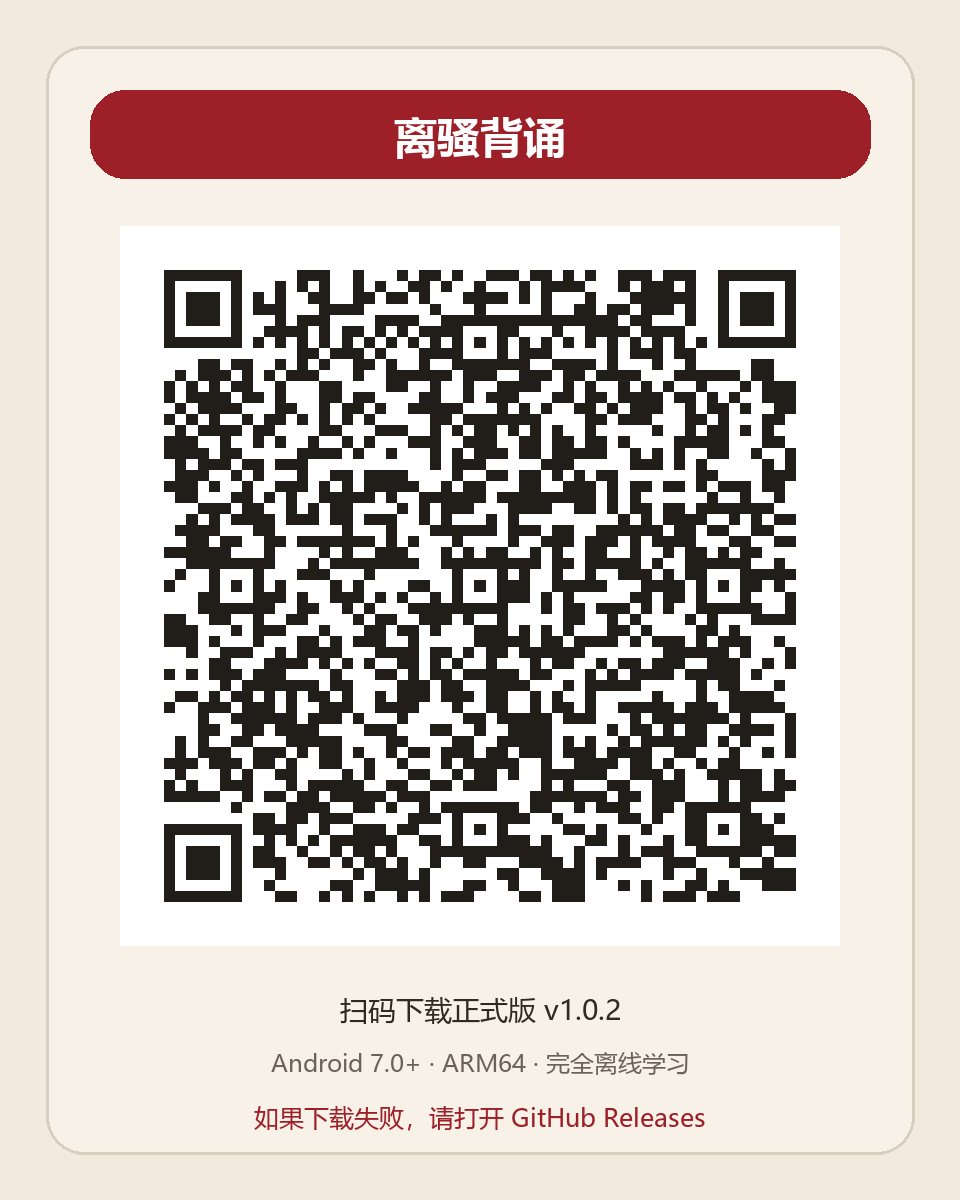
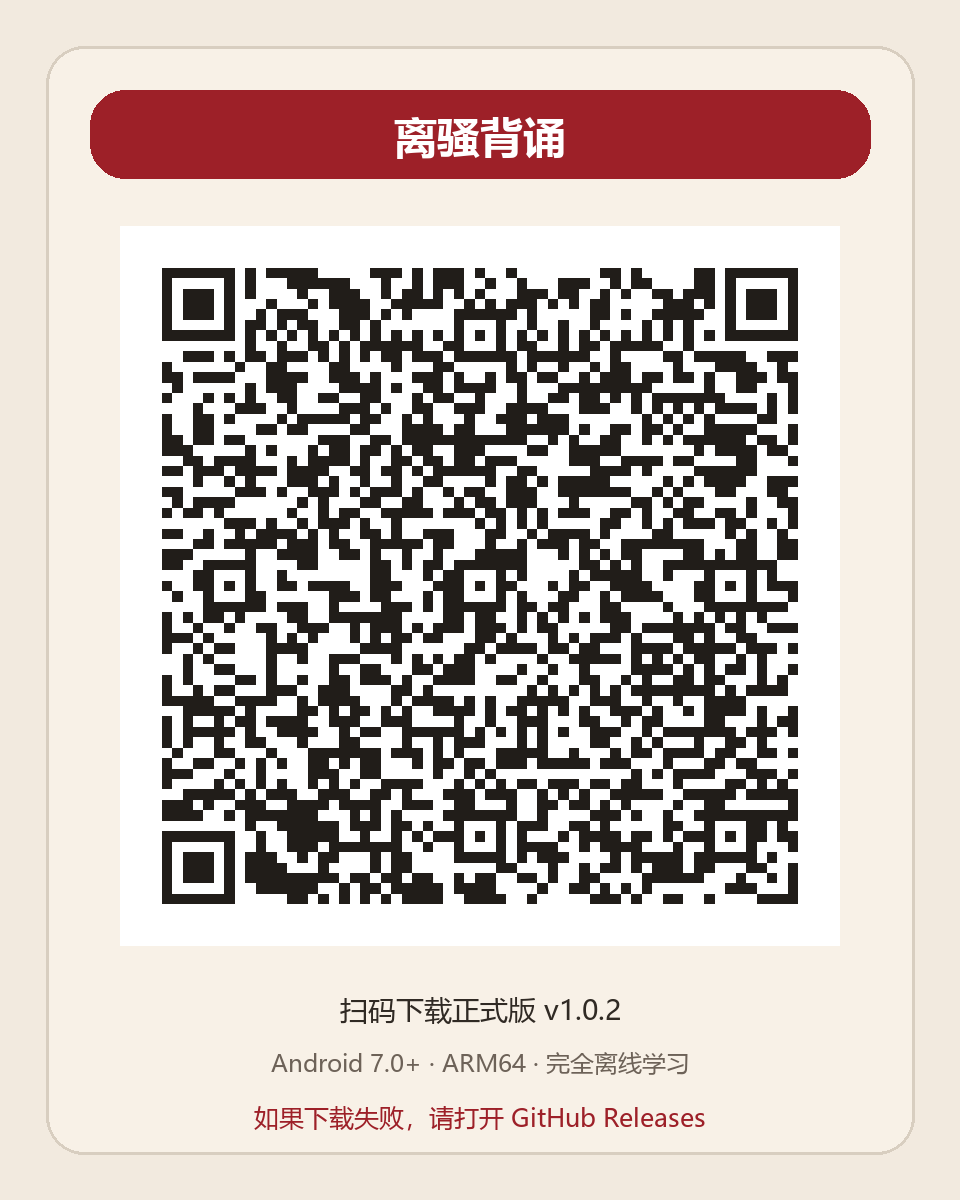
release: publish verified v1.0.2 apk

Changed region(s): [[0.1562, 0.2158, 0.8438, 0.7708]]

diff --git a/src/services/updates.ts b/src/services/updates.ts
@@ -22,7 +22,8 @@ export interface DownloadProgress {
 
 const VERSION_URLS = [
   'https://raw.githubusercontent.com/c6823821-sketch/lisao-recite-app/main/version.json',
-  'https://ghfast.top/https://raw.githubusercontent.com/c6823821-sketch/lisao-recite-app/main/version.json',
+  'https://ghproxy.net/https://raw.githubusercontent.com/c6823821-sketch/lisao-recite-app/main/version.json',
+  'https://gh-proxy.com/https://raw.githubusercontent.com/c6823821-sketch/lisao-recite-app/main/version.json',
 ];
 
 const RELEASE_PAGE = 'https://github.com/c6823821-sketch/lisao-recite-app/releases/latest';

diff --git a/README.md b/README.md
@@ -6,8 +6,8 @@
 
 - [GitHub Releases](https://github.com/c6823821-sketch/lisao-recite-app/releases/latest)
 - 当前安装包为 Android 7.0+ ARM64 版本。
-- 大小：26,426,662 字节
[1 lines of base64/hex data omitted]
+- 大小：26,426,762 字节
[1 lines of base64/hex data omitted]
 
 ![离骚背诵 APK 下载二维码](docs/qr.png)
 
@@ -45,6 +45,7 @@
 - 支持遮字、全文核对、译意提示、隔组回炉和四档自评；不会或要提示时先看讲解再继续。
 - “我的”会列出今天背过什么、已学原句、掌握程度、上次评分和下次复习时间。
 - 应用内检查 GitHub 正式版、下载更新并调用 Android 系统安装器。
+- 更新检查和下载带国内镜像回退，GitHub 直链受限时仍可继续。
 - 所有学习记录只保存在本机。
 
 ## 原文

diff --git a/CHANGELOG.md b/CHANGELOG.md
@@ -10,6 +10,7 @@
 - 评分“不会”或“要提示”后不再马上跳走，会停留当前组并自动展开译意与背诵路标。
 - 修复切换到下一组后仍停在上一页底部、当前原文被截掉的问题。
 - 补回应用内更新所需的安装包权限，检查到新版后可以继续调用 Android 系统安装器。
+- 更新检查和下载新增当前可用的国内镜像，原 GitHub 直链或 `ghfast.top` 无法连接时仍可继续。
 - 补齐学习安排、上下文和回炉顺序的自动化检查，并复测 390×844、320×568 页面。
 
 ## 1.0.1（versionCode 2）

diff --git a/使用说明.md b/使用说明.md
@@ -6,8 +6,8 @@
 - 包名：`com.shici.lisao`
 - 版本：1.0.2，versionCode 3
 - 适用设备：Android 7.0 及以上、ARM64 手机
-- 大小：26,426,662 字节
[1 lines of base64/hex data omitted]
+- 大小：26,426,762 字节
[1 lines of base64/hex data omitted]
 
 ## 怎么用
 
